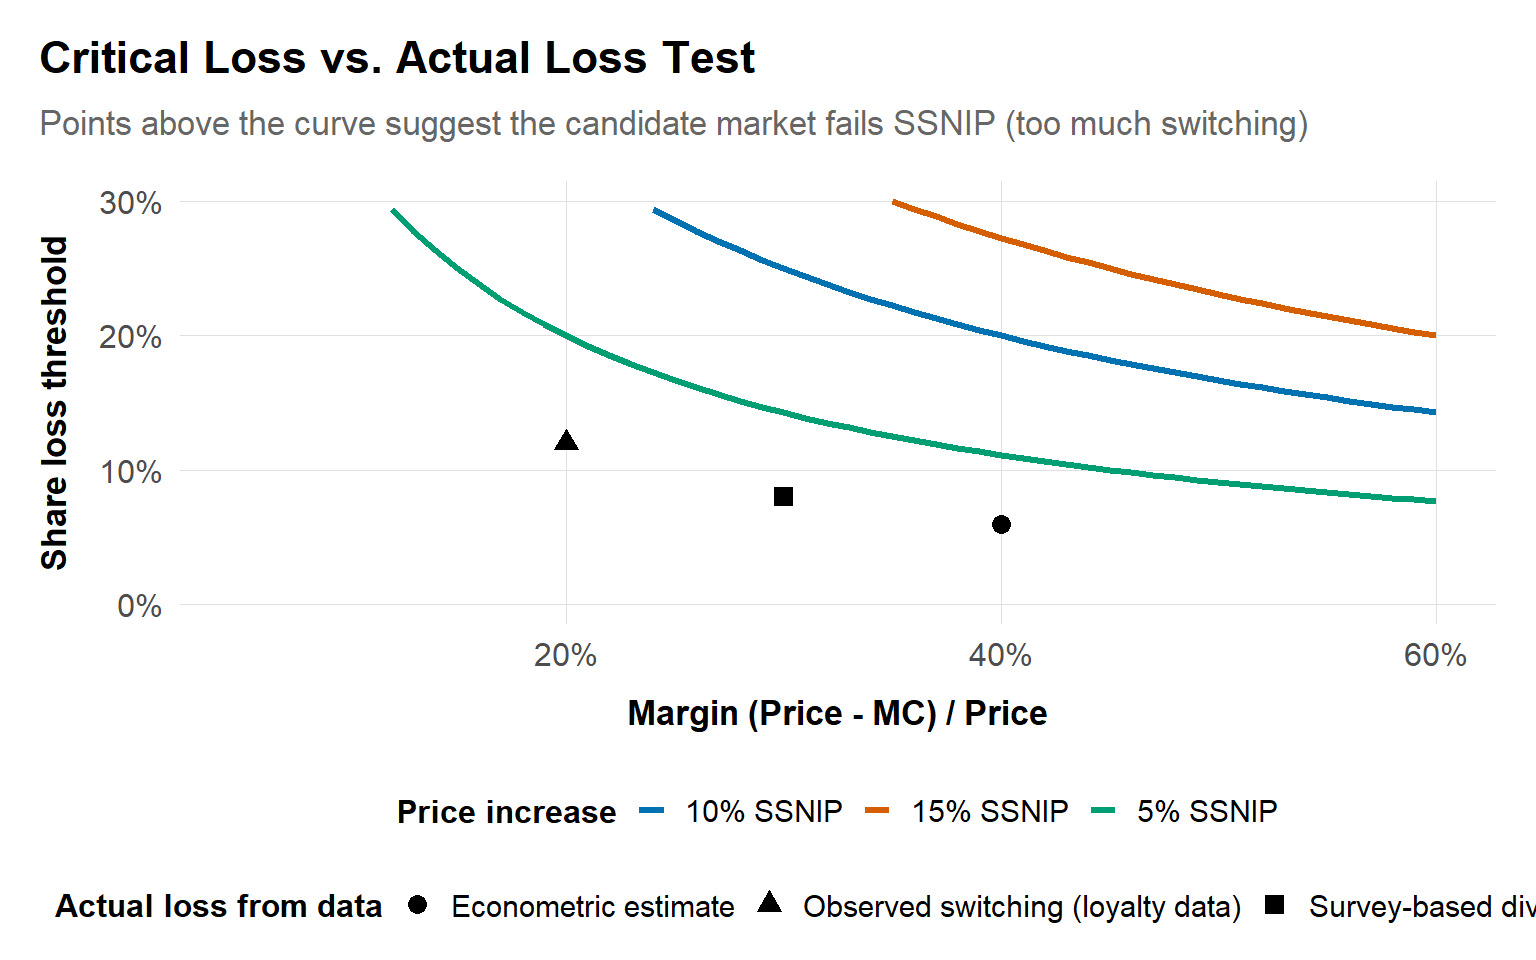
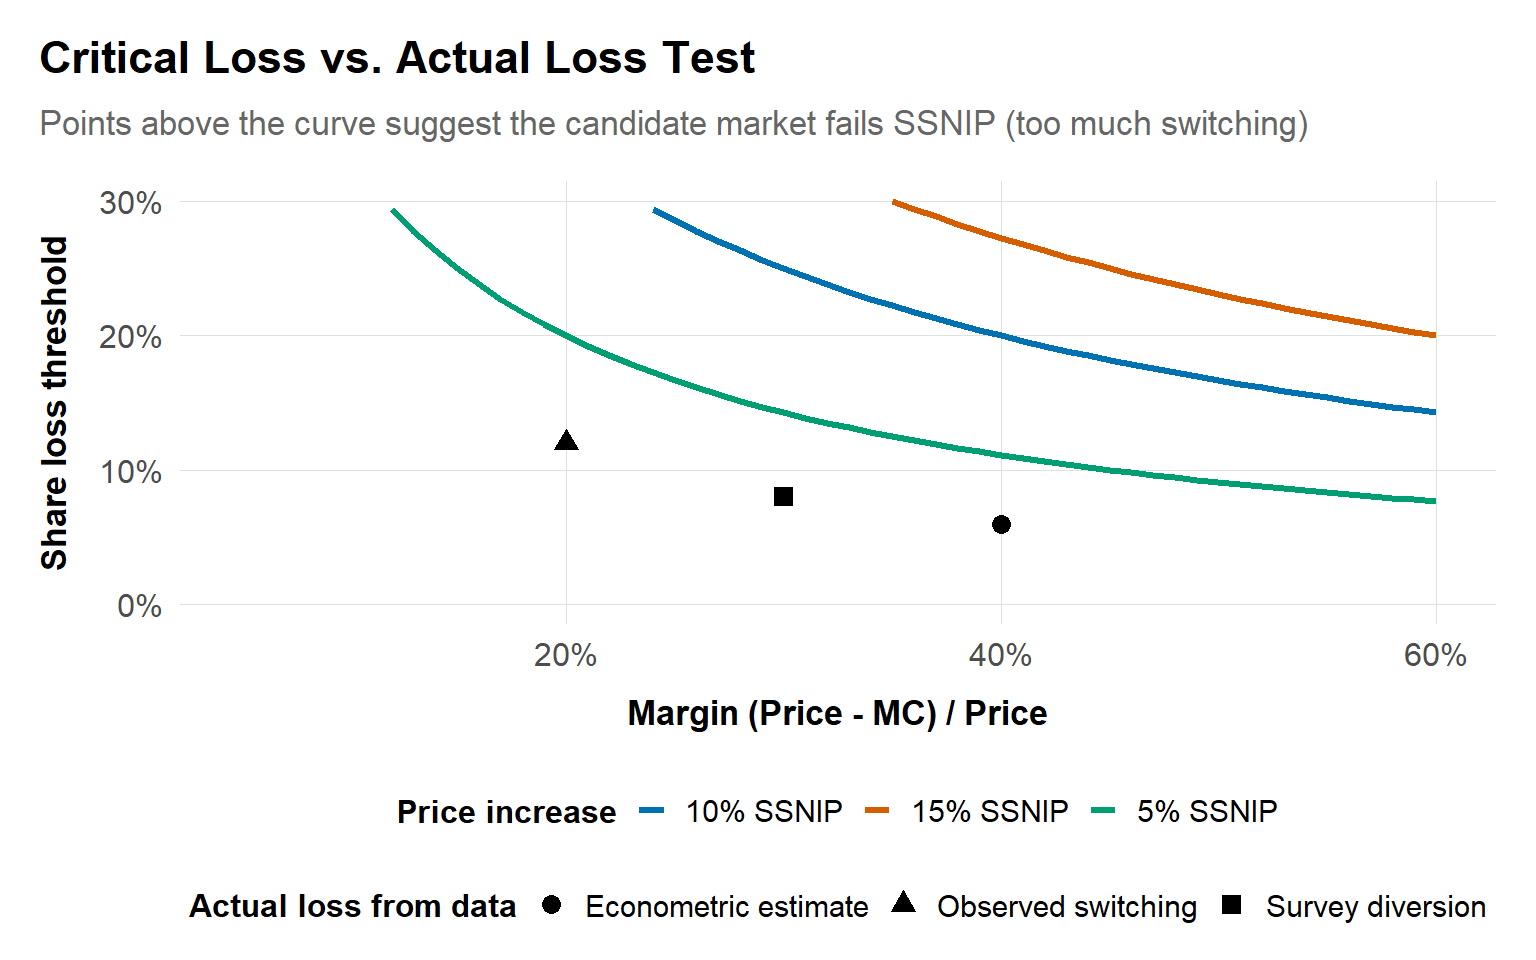
Fix clipped labels and legends in three figures
- Ch 05: Gasoline structural break chart — regime labels, breakpoint
  lines, capped at 4 breaks for readability
- Ch 03: Critical loss chart — shortened legend labels to prevent clipping
- Ch 07: Tying/bundling chart — shortened panel title to fit

Changed region(s): [[0.0312, 0.9375, 1.0, 0.9688]]

diff --git a/gitbook/chapters/05-cartels.md b/gitbook/chapters/05-cartels.md
@@ -531,13 +531,19 @@ gas <- fredr(series_id = "GASREGW", observation_start = as.Date("2015-01-01")) |
   rename(price = value) |>
   mutate(week = row_number())
 
-bp <- breakpoints(price ~ week, data = gas, h = 26)
-gas$regime <- factor(cut(gas$week, c(0, bp$breakpoints, Inf)))
+bp_full <- breakpoints(price ~ week, data = gas, h = 26)
+bp <- breakpoints(bp_full, breaks = 4)
+breaks <- c(0, bp$breakpoints, nrow(gas))
+gas$regime <- factor(cut(gas$week, breaks, labels = paste("Regime", seq_len(length(breaks) - 1))))
 
 ggplot(gas, aes(date, price, color = regime)) +
   geom_line(linewidth = 0.8) +
+  geom_vline(
+    xintercept = gas$date[bp$breakpoints],
+    linetype = "dashed", color = "grey40", linewidth = 0.4
+  ) +
   labs(
-    title = "Regular Gasoline Prices: Structural Break Illustration",
+    title = "Gasoline Prices: Structural Break Detection",
     subtitle = "FRED series GASREGW (weekly, US average)",
     x = NULL,
     y = "USD per gallon",

diff --git a/gitbook/chapters/03-market-definition.md b/gitbook/chapters/03-market-definition.md
@@ -126,8 +126,8 @@ cl_curves <- expand.grid(
 # In practice, these come from loyalty data, surveys, or econometric diversion estimates
 actual_loss_examples <- tibble::tribble(
   ~margin, ~actual_loss, ~scenario,
-  0.20, 0.12, "Observed switching (loyalty data)",
-  0.30, 0.08, "Survey-based diversion",
+  0.20, 0.12, "Observed switching",
+  0.30, 0.08, "Survey diversion",
   0.40, 0.06, "Econometric estimate"
 )
 

diff --git a/gitbook/chapters/07-monopolization.md b/gitbook/chapters/07-monopolization.md
@@ -611,7 +611,7 @@ p_correlation <- ggplot(correlation_data, aes(x = bundle_penetration, y = rival_
                                    correlation_data$rival_A_share), 2)),
            size = 4, fontface = "bold", color = "gray30") +
   labs(
-    title = "Strong negative correlation: Bundle penetration vs. Rival A share",
+    title = "Bundle penetration vs. rival share",
     subtitle = "Post-bundle introduction (Q8-Q20)",
     x = "Bundle penetration (%)",
     y = "Rival A market share (%)"